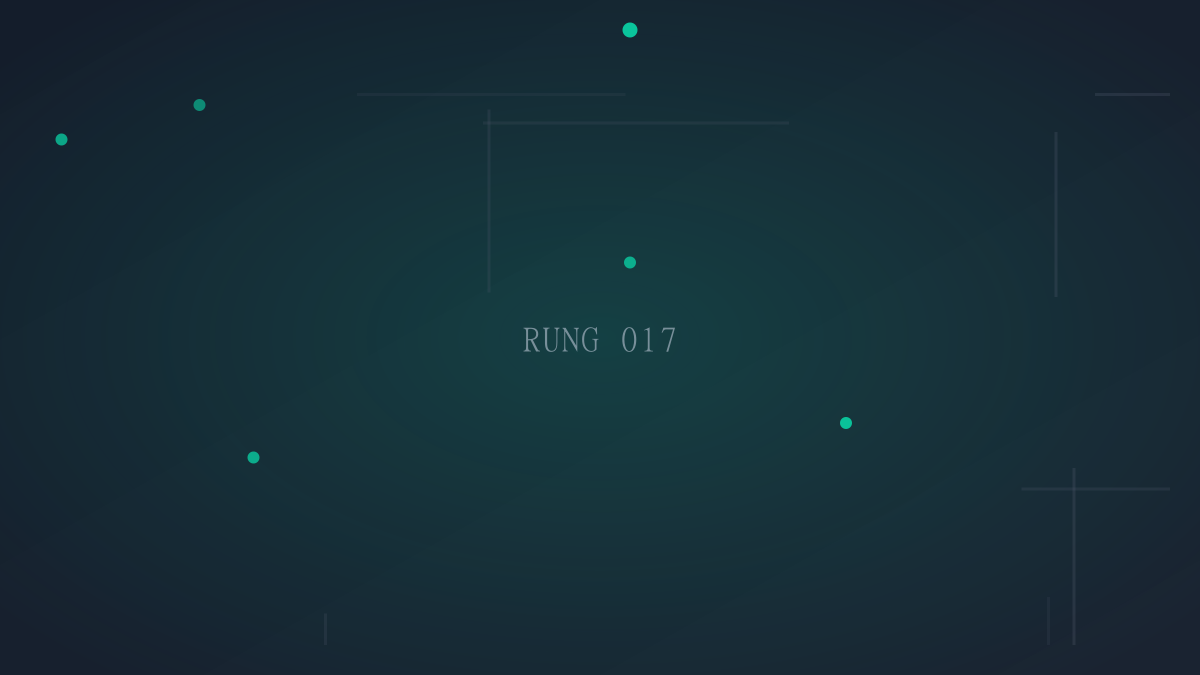
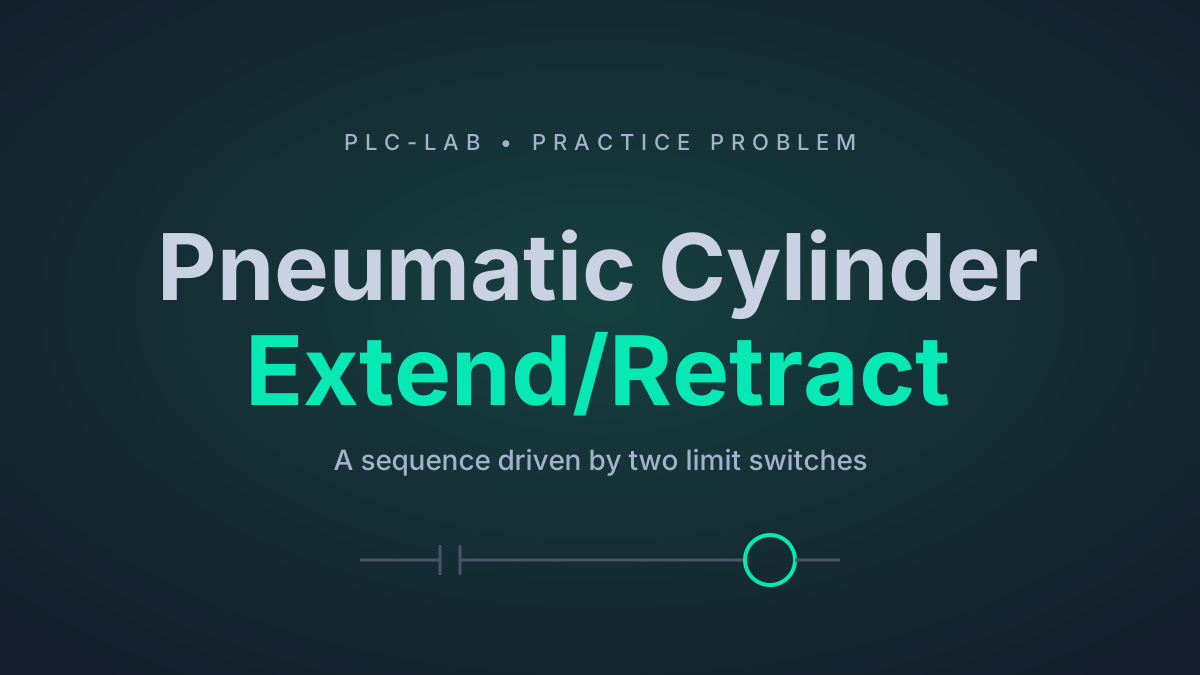
completed level 1

diff --git a/src/content/blog/PLC_LAB/Level_1_Fundamentals/10_pneumatic_cylinder_extendretract.md b/src/content/blog/PLC_LAB/Level_1_Fundamentals/10_pneumatic_cylinder_extendretract.md
@@ -1,12 +1,187 @@
 ---
 title: "Pneumatic Cylinder Extend/Retract"
 category: "[ PLC-LAB ] Level 1 - Fundamentals"
-summary: "A pneumatic cylinder has an EXTEND solenoid, a RETRACT solenoid and two limit switches. PressingSTART makes it extend. When it is fully extended it must retract by itself. When it is fully retracted, the cycleis complete. The two solenoids must never be ON together, and the cycle must not restart unexpectedly."
+summary: "A pneumatic cylinder that extends when START is pressed, retracts by itself when it reaches the extended limit switch, and finishes when it is back home. A sequence driven by two limit switches, with a fault timeout and a reset."
 cover: "/images/blog/PLC_LAB/Level_1_Fundamentals/Pneumatic_Cylinder_ExtendRetract/cover.png"
-tags: ["Practice", "Logic", "Seal-In", "RSLogix 500", "Learning"]
+tags: ["Practice", "Sequencing", "Limit Switches", "Interlocks", "RSLogix 500", "Learning"]
 date: 2026-10-30
-draft: true
+draft: false
 ---
 
 ## Introduction
+
+Almost every machine has a pneumatic cylinder somewhere: a pusher that moves a part onto a conveyor, a clamp that holds a workpiece, a stamp that comes down and goes back up. A cylinder does one simple thing, it goes out and comes back, but programming it properly is where a PLC program starts to feel like a real sequence. There are steps, and the program has to know which step it is in.
+
+This was one of my own Level 1 practice problems, in the sequential basics category, written in RSLogix 500 on a MicroLogix 1100. I found this one difficult, so in this post I take it slowly: the problem, the inputs and outputs, the sequence of operation, the ladder logic one rung at a time, and how I tested it.
+
+## The Problem Statement
+
+A pneumatic cylinder has an EXTEND solenoid, a RETRACT solenoid and two limit switches. Pressing START extends the cylinder. When it is fully extended it retracts automatically, and when it is fully retracted the cycle is complete.
+
+In my own words, the program has to do six things:
+
+- Start the cycle when START is pressed, and extend the cylinder.
+- Use the EXTENDED limit switch to decide when to stop extending and start retracting.
+- Use the RETRACTED limit switch to decide when the cycle is complete.
+- Never command extend and retract at the same time.
+- Never restart by itself after the cycle is complete.
+- Handle a reset or fault situation if I think it is necessary.
+
+> **Note:** The limit switches only say where the cylinder *is*. They do not say what the cylinder is *doing*. The RETRACTED switch is on at the beginning of the cycle and on again at the end, so the program cannot tell "about to extend" from "just finished" by looking at the switches alone. The program needs a memory for the step it is in, and that was the idea that finally made this problem click for me.
+
+That memory is a pair of internal bits, one for each step. A step bit is on while its step is running. The limit switches do not command the solenoids directly: they only move the program from one step bit to the next.
+
+## Input and Output List
+
+Three inputs and two outputs come from the task sheet, and I added one input myself, a RESET button, for the fault situation. My hardware for this lab is a MicroLogix 1100 (Series B) with a 1762-IQ8 input module in slot 1 and a 1762-OW8 relay output module in slot 2. The task sheet uses generic addresses (I0.0 to I0.2 and Q0.0 and Q0.1), so here is how they map onto my project.
+
+**Inputs**
+
+| Tag | Task sheet | My address | Device |
+|-----|------------|------------|--------|
+| START_PB | I0.0 | I:1/0 | START push button |
+| EXT_LS | I0.1 | I:1/1 | EXTENDED limit switch |
+| RET_LS | I0.2 | I:1/2 | RETRACTED limit switch |
+| RESET_PB | not on the sheet | I:1/3 | RESET push button (my addition) |
+
+**Outputs**
+
+| Tag | Task sheet | My address | Device |
+|-----|------------|------------|--------|
+| EXTEND_SOLENOID | Q0.0 | O:2/0 | Extend solenoid |
+| RETRACT_SOLENOID | Q0.1 | O:2/1 | Retract solenoid |
+
+**Internal bits and the timers**
+
+| Address | Symbol | Meaning |
+|---------|--------|---------|
+| B3:0/0 | START_PB | Copy of the START input |
+| B3:0/1 | EXT_LS | Copy of the EXTENDED limit switch |
+| B3:0/2 | RET_LS | Copy of the RETRACTED limit switch |
+| B3:0/3 | RESET_PB | Copy of the RESET input |
+| B3:0/4 | START_PULSE | True for one scan when START is pressed |
+| B3:0/5 | ONS | Storage bit for the one-shot instruction |
+| B3:0/6 | EXTENDING | Step bit: the extend step is running |
+| B3:0/7 | RETRACTING | Step bit: the retract step is running |
+| B3:0/8 | FAULT | A fault is latched |
+| T4:0 | EXTEND WATCHDOG | TON, 1.0 second time base, preset 5: limits how long the extend step may take |
+| T4:1 | RETRACT WATCHDOG | TON, 1.0 second time base, preset 5: limits how long the retract step may take |
+
+![Input and output flow](/images/blog/PLC_LAB/Level_1_Fundamentals/Pneumatic_Cylinder_ExtendRetract/io-map.svg)
+
+> **Note:** My assumptions are written down here, because the task asks me to document them. The limit switches are normally open and are on when the cylinder is at that end. The cylinder can only start from home, which means the RETRACTED switch must be on. A normal stroke takes well under 5 seconds, so a stroke that takes 5 seconds or more is treated as a fault. The RESET button and the 5 second watchdog times are my own additions. They are not on the task sheet.
+
+As in my other labs, I never program the inputs directly. The program is organised into files, and the first one copies the physical inputs into internal bits. Everything after that works only with the internal bits. Here is the main file that ties it together.
+
+![MAIN ladder: four subroutine calls, then END](/images/blog/PLC_LAB/Level_1_Fundamentals/Pneumatic_Cylinder_ExtendRetract/MAIN.png)
+
+MAIN calls four files in order: DIGITAL IO (`U:3`), ANALOG IO (`U:4`), ALARMS (`U:5`) and CONTROLS (`U:6`). ANALOG IO and ALARMS are empty in this exercise. They are placeholders in the program layout, so that analog signals and alarms already have a home when a project needs them.
+
+![Program organisation: MAIN, DIGITAL_IO, ANALOG_IO, ALARMS, CONTROLS](/images/blog/PLC_LAB/Level_1_Fundamentals/Pneumatic_Cylinder_ExtendRetract/program-flow.svg)
+
+The DIGITAL IO file is where the physical world meets the program:
+
+![DIGITAL IO ladder: four inputs copied into internal bits, and the two step bits copied to the solenoid outputs with an interlock](/images/blog/PLC_LAB/Level_1_Fundamentals/Pneumatic_Cylinder_ExtendRetract/DIGITAL_IO.png)
+
+Reading the figure from top to bottom:
+
+- **Rung 0000:** the START input `I:1/0` is examined with an XIC and copied into `B3:0/0` (START_PB).
+- **Rung 0001:** the EXTENDED limit switch `I:1/1` is examined with an XIC and copied into `B3:0/1` (EXT_LS).
+- **Rung 0002:** the RETRACTED limit switch `I:1/2` is examined with an XIC and copied into `B3:0/2` (RET_LS).
+- **Rung 0003:** the RESET input `I:1/3` is examined with an XIC and copied into `B3:0/3` (RESET_PB).
+- **Rung 0004:** when EXTENDING (`B3:0/6`) is on and RETRACTING (`B3:0/7`) is *not* on, the extend solenoid output `O:2/0` turns on.
+- **Rung 0005:** when RETRACTING (`B3:0/7`) is on and EXTENDING (`B3:0/6`) is *not* on, the retract solenoid output `O:2/1` turns on.
+
+Quick refresher on the symbols. **XIC** (Examine If Closed) is true when its bit is 1. **XIO** (Examine If Open) is true when its bit is 0. **OTE** (Output Energize) turns its bit on while the rung is true.
+
+> **Note:** Rungs 0004 and 0005 are my second line of defence for the rule that extend and retract must never be commanded together. Each output rung contains an XIO of the *other* step bit, so even if a mistake in the logic turned on both step bits, neither solenoid output could turn on. That kind of cross-check is called an interlock.
+
+## Sequence of Operation
+
+Before drawing any ladder, I asked myself how many conditions this system can be in. There are four: idle, extending, retracting, and fault. Here is the sequence table. A 1 means on, a 0 means off, and an X means the value does not matter.
+
+| Condition | START | EXT LS | RET LS | EXTEND | RETRACT | FAULT |
+|-----------|-------|--------|--------|--------|---------|-------|
+| Idle, cylinder at home | 0 | 0 | 1 | 0 | 0 | 0 |
+| START pressed at home | 1 | 0 | 1 | 1 | 0 | 0 |
+| Extending | 0 | 0 | 0 | 1 | 0 | 0 |
+| Fully extended | 0 | 1 | 0 | 0 | 1 | 0 |
+| Retracting | 0 | 0 | 0 | 0 | 1 | 0 |
+| Fully retracted, cycle complete | 0 | 0 | 1 | 0 | 0 | 0 |
+| START still held after the cycle | 1 | 0 | 1 | 0 | 0 | 0 |
+| Stroke takes 5 s or more | 0 | 0 | 0 | 0 | 0 | 1 |
+
+**Reading the sequence**
+
+- **Idle, cylinder at home:** both solenoids are off and the RETRACTED switch is on.
+- **START pressed at home:** the extend solenoid turns on. START only works when the RETRACTED switch is on, so a press while the cylinder is somewhere else does nothing.
+- **Extending:** the cylinder leaves home, so the RETRACTED switch goes off, and the extend solenoid stays on without the operator holding START.
+- **Fully extended:** the key row. The EXTENDED switch comes on, the extend solenoid turns off, and the retract solenoid turns on in the same moment, so the two are never on together.
+- **Retracting:** the cylinder comes back on its own, and the EXTENDED switch goes off on the way.
+- **Fully retracted, cycle complete:** the RETRACTED switch comes on and the retract solenoid turns off. The machine is idle again.
+- **START still held after the cycle:** nothing happens. A cycle needs a fresh press of START, so holding the button cannot restart the machine.
+- **Stroke takes 5 s or more:** both solenoids turn off and the FAULT bit latches. It stays latched until RESET is pressed.
+
+The same behaviour as a state diagram. Only START, the two limit switches, the timeout and RESET move the system between its states.
+
+![State diagram: idle, extending, retracting and fault](/images/blog/PLC_LAB/Level_1_Fundamentals/Pneumatic_Cylinder_ExtendRetract/state-diagram.svg)
+
+## The Program Logic
+
+The control logic is six rungs. The figure below is the CONTROLS file.
+
+![CONTROLS ladder: START pulse, retracting step, extending step, two watchdog timers and the fault latch](/images/blog/PLC_LAB/Level_1_Fundamentals/Pneumatic_Cylinder_ExtendRetract/CONTROLS.png)
+
+**Rung 0000: START pulse.** `START_PB` (`B3:0/0`) passes through a one-shot (**ONS**, `B3:0/5`) and drives `START_PULSE` (`B3:0/4`). The ONS lets power through for only one scan, at the moment the button goes from released to pressed. If I hold START down, START_PULSE is still true for exactly one scan. This rung is what stops the cylinder from restarting while START is held.
+
+**Rung 0001: Retracting step.** This rung turns on the RETRACTING bit. Reading left to right:
+
+- **EXTENDING (`B3:0/6`) in series with EXT_LS (`B3:0/1`)** is the way into this step: the cylinder was extending and the EXTENDED switch came on.
+- **RETRACTING (`B3:0/7`)** is in parallel with that path. Once the bit is on, this contact keeps the rung true, so the step carries on by itself. This is the same seal-in idea I used in my earlier labs.
+- **RET_LS (`B3:0/2`)** is an XIO in series. When the cylinder is back home, the RETRACTED switch opens the rung and the step ends.
+- **FAULT (`B3:0/8`)** is an XIO in series as well, so a fault switches the step off.
+
+**Rung 0002: Extending step.** This rung turns on the EXTENDING bit, and it has the same shape as rung 0001:
+
+- **START_PULSE (`B3:0/4`) in series with RET_LS (`B3:0/2`)** is the way into this step: a fresh press of START, with the cylinder at home. This is how the program knows it is allowed to start.
+- **EXTENDING (`B3:0/6`)** is in parallel, as the seal-in that keeps the step running after the START pulse is gone.
+- **RETRACTING (`B3:0/7`)** is an XIO in series. When the retract step begins, this contact opens and the extend step ends in the same scan.
+- **FAULT (`B3:0/8`)** is an XIO in series, so a fault switches the step off.
+
+> **Note:** The order of rungs 0001 and 0002 is deliberate. The PLC solves rungs from top to bottom. When the EXTENDED switch comes on, rung 0001 runs first and still sees EXTENDING on, so it turns RETRACTING on. Then rung 0002 runs, sees RETRACTING on, and turns EXTENDING off. Both changes happen in the same scan, so there is never a scan where both step bits are on. If I swapped the two rungs, the extend step would stay on for one extra scan. It is a good habit to put the *later* step above the earlier one.
+
+**Rungs 0003 and 0004: Watchdog timers.** `EXTENDING` feeds a **TON** named EXTEND WATCHDOG (`T4:0`), and `RETRACTING` feeds a second **TON** named RETRACT WATCHDOG (`T4:1`). Both have a time base of 1.0 second and a preset of 5. A TON counts while its rung is true and resets when its rung goes false. Because each timer is fed by one step bit, each one measures a single stroke: when the step ends normally, its timer resets. If the cylinder jams or the air supply fails and the limit switch never comes on, the timer reaches 5 seconds and its done bit comes on.
+
+**Rung 0005: Fault latch.** The FAULT bit comes on when any one of these is true:
+
+- **T4:0/DN**, the extend stroke took too long.
+- **T4:1/DN**, the retract stroke took too long.
+- **EXT_LS and RET_LS together**, because a cylinder cannot be at both ends at once, so a limit switch must be faulty or wrongly wired.
+- **FAULT (`B3:0/8`)**, the seal-in, which keeps the fault on after its cause has gone.
+
+An XIO on `RESET_PB` is in series, so pressing RESET breaks the seal-in and clears the fault. While FAULT is on, rungs 0001 and 0002 are switched off, so both solenoids are off.
+
+> **Note:** RESET clears the fault but it does not move the cylinder. If the cylinder stopped half-way, it is not at home, so START stays ignored until the cylinder is back at the RETRACTED switch. That is on purpose: it stops the machine from starting a cycle from an unknown position.
+
+Document, document, document. Every bit and every timer here has a symbol and a description, which is what lets me open the file months from now and understand it in seconds.
+
+## Testing and Verification
+
+I test these programs in the RSLogix 500 emulator by toggling the input bits and watching the rungs, the timers and the outputs. In this lab I act as the cylinder myself: I switch the limit switch bits on and off to follow where I imagine the cylinder is. The sequence table is my checklist.
+
+| Test | Action | Expected |
+|------|--------|----------|
+| 1. Normal cycle | With RET_LS on, press START. When the cylinder is out, turn EXT_LS on and RET_LS off. When it is back, turn RET_LS on and EXT_LS off | EXTEND is on until EXT_LS comes on, then RETRACT is on until RET_LS comes on, then both are off and the cycle is complete |
+| 2. START held | Hold START down through the whole cycle | The cycle runs once and does not restart, even though START is still held. A new START needs a release and a new press |
+| 3. START mid-stroke | Press START again while the cylinder is extending or retracting | Nothing changes: the cycle carries on and the timers are not restarted |
+| 4. Stroke timeout fault | Press START and never turn EXT_LS on | After 5 seconds both solenoids go off and FAULT latches. RESET clears the fault |
+| 5. START away from home | With RET_LS off and no cycle running, press START | Nothing happens: the cylinder only starts from home |
+| 6. Edge case | Turn EXT_LS and RET_LS on together | FAULT latches immediately and both solenoids stay off. RESET only works once the two switches are no longer both on |
+
+The animation below shows the expected behaviour of the actual cylinder through the first five tests. The START and RESET buttons, the two solenoid lamps and the FAULT lamp are at the top. At the bottom, the piston moves out and back, the limit switches light up at each end, and the timeout fault and its recovery are shown. When the cylinder is back home, START works again.
+
+![Expected behaviour of the cylinder through the test sequence](/images/blog/PLC_LAB/Level_1_Fundamentals/Pneumatic_Cylinder_ExtendRetract/test-sequence-animation.svg)
+
+Learn → Build → Document → Improve.
+
 

diff --git a/src/content/blog/PLC_LAB/Level_2_Intermediate/1_bottle_filling_station.md b/src/content/blog/PLC_LAB/Level_2_Intermediate/1_bottle_filling_station.md
@@ -1,0 +1,12 @@
+---
+title: "Bottle Filling Station"
+category: "[ PLC-LAB ] Level 2 - Intermediate"
+summary: "Empty bottles arrive on a conveyor. A sensor detects a bottle at the filling position. The conveyor must stop,the fill valve must open for 4 seconds, the valve closes and the conveyor restarts. The valve may open onlywhen a bottle is correctly in position, and one bottle must not cause more than one fill."
+cover: "/images/blog/PLC_LAB/Level_2_Intermediate/Bottle_Filling_Station/cover.png"
+tags: ["Timers", "Sensors", "Sequencing"]
+date: 2026-11-11
+draft: true
+---
+
+## Introduction
+
